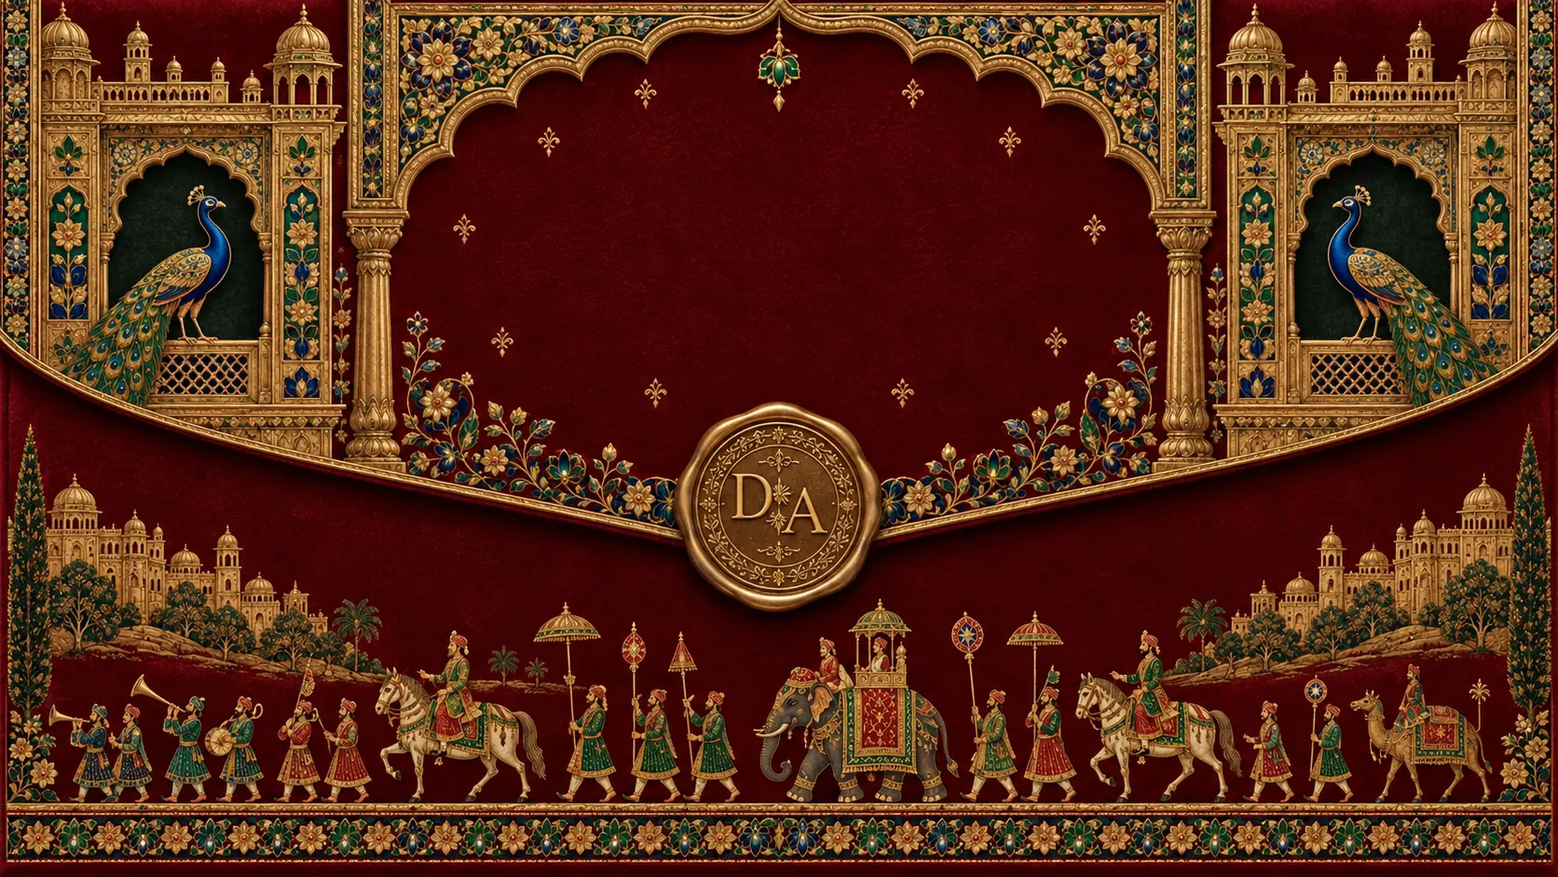
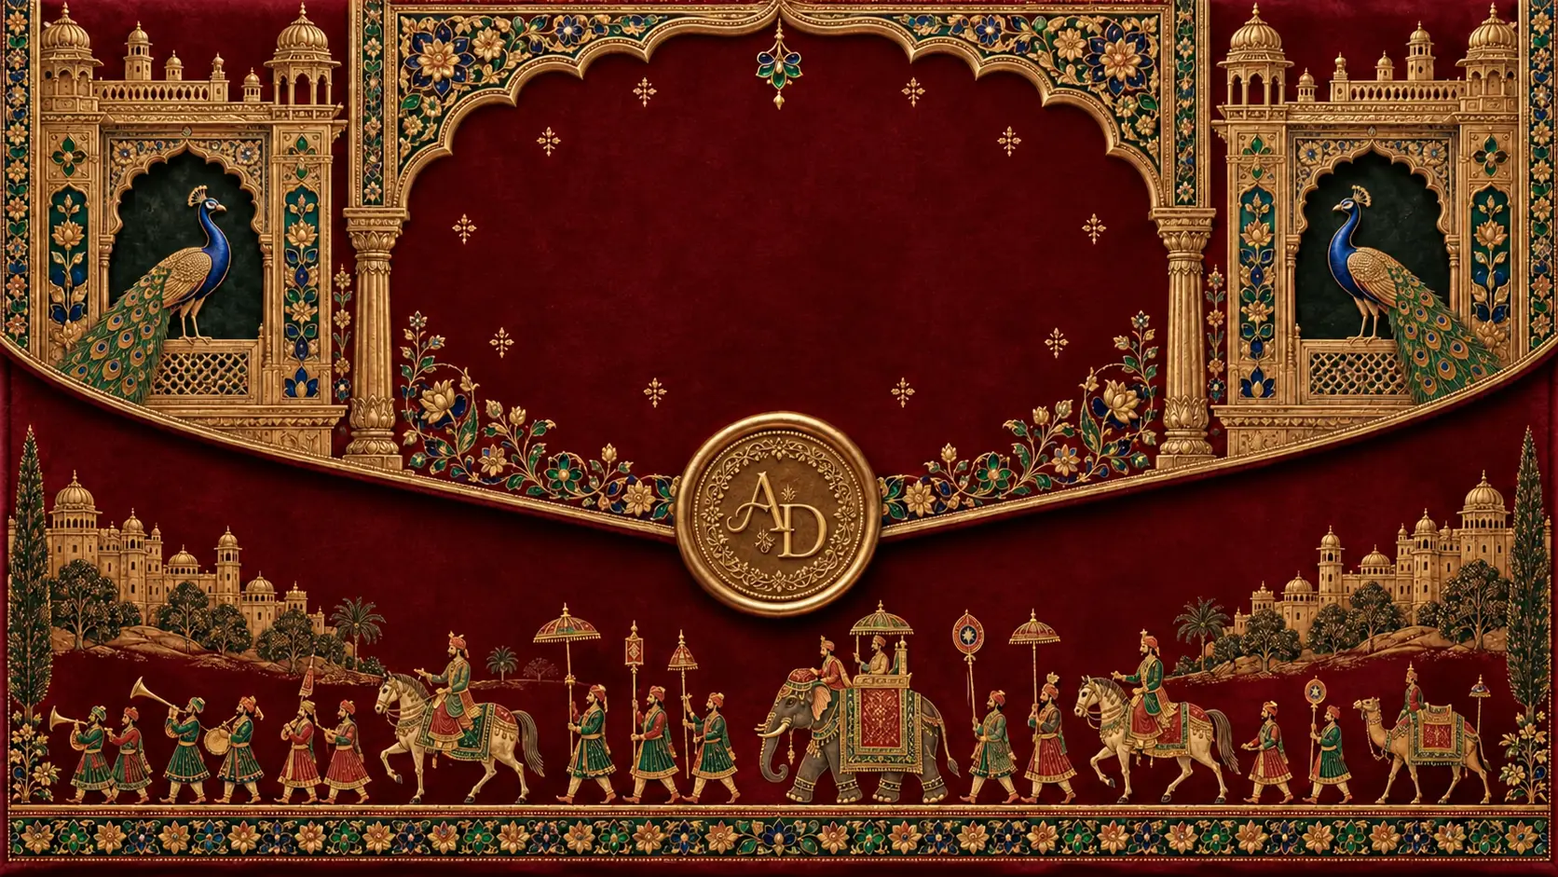
feat: customize wedding invitation website for bride side (Ayusha weds Deepak)

diff --git a/src/components/site/GalleryStack.tsx b/src/components/site/GalleryStack.tsx
@@ -4,10 +4,10 @@ import { useEffect, useRef, useState } from "react";
 import { ArrowLeft, ArrowRight, Expand, Pause, Play, X } from "lucide-react";
 import { Mandala } from "./Ornaments";
 const photos = [
-  { src: "/images/ayusha-deepak-1.webp", alt: "Deepak and Ayusha smiling at each other", title: "It begins with us.", caption: "A glance, a smile, and a new chapter waiting to unfold." },
-  { src: "/images/ayusha-deepak-2.webp", alt: "Deepak and Ayusha dancing together", title: "A little dance. A lot of joy.", caption: "The kind of happiness we can’t wait to share with you." },
-  { src: "/images/ayusha-deepak-4.webp", alt: "Deepak and Ayusha standing together in the light", title: "In every little moment.", caption: "Together is where the next chapter begins." },
-  { src: "/images/ayusha-deepak-3.webp", alt: "Deepak and Ayusha’s celebration portrait", title: "And now, our forever.", caption: "With our families’ blessings, and you by our side." },
+  { src: "/images/ayusha-deepak-1.webp", alt: "Ayusha and Deepak smiling at each other", title: "It begins with us.", caption: "A glance, a smile, and a new chapter waiting to unfold." },
+  { src: "/images/ayusha-deepak-2.webp", alt: "Ayusha and Deepak dancing together", title: "A little dance. A lot of joy.", caption: "The kind of happiness we can’t wait to share with you." },
+  { src: "/images/ayusha-deepak-4.webp", alt: "Ayusha and Deepak standing together in the light", title: "In every little moment.", caption: "Together is where the next chapter begins." },
+  { src: "/images/ayusha-deepak-3.webp", alt: "Ayusha and Deepak’s celebration portrait", title: "And now, our forever.", caption: "With our families’ blessings, and you by our side." },
 ];
 export default function GalleryStack() {
   const root = useRef<HTMLElement>(null);
@@ -36,11 +36,11 @@ export default function GalleryStack() {
   const open = () => { setAutoPlay(false); dialog.current?.showModal(); };
   return <section id="gallery" ref={root} className="memory-story" aria-labelledby="gallery-title">
     <div className="memory-canopy" aria-hidden="true"><img src="/artwork/b4f038c348f07bc0.webp" alt="" loading="lazy" /></div>
-    <header className="premium-heading" data-story=""><span className="eyebrow">A note from Deepak</span><p className="script-accent">A new chapter, with Ayusha</p><h2 id="gallery-title">Some moments<br />deserve to last forever.</h2><p>As Ayusha and I begin this new chapter, I look forward to celebrating it with the people who mean the most to us. These little moments are only the beginning.</p></header>
-    <div className="memory-stage" aria-roledescription="carousel" aria-label="Deepak and Ayusha’s photographs" onTouchStart={event => { touchX.current = event.touches[0].clientX; }} onTouchEnd={event => { if(touchX.current !== null) { const delta=event.changedTouches[0].clientX-touchX.current; if(Math.abs(delta)>45) move(delta<0?1:-1); touchX.current=null; } }}>
+    <header className="premium-heading" data-story=""><span className="eyebrow">A note from Ayusha</span><p className="script-accent">A new chapter, with Deepak</p><h2 id="gallery-title">Some moments<br />deserve to last forever.</h2><p>As Deepak and I begin this new chapter, I look forward to celebrating it with the people who mean the most to us. These little moments are only the beginning.</p></header>
+    <div className="memory-stage" aria-roledescription="carousel" aria-label="Ayusha and Deepak’s photographs" onTouchStart={event => { touchX.current = event.touches[0].clientX; }} onTouchEnd={event => { if(touchX.current !== null) { const delta=event.changedTouches[0].clientX-touchX.current; if(Math.abs(delta)>45) move(delta<0?1:-1); touchX.current=null; } }}>
       <Mandala className="memory-halo" aria-hidden="true" />
       {photos.map((photo, index) => { const offset=(index-active+photos.length)%photos.length; const position=offset===3?-1:offset;
-        return <button type="button" key={photo.src} className="memory-card" data-position={position} onClick={() => position===0 ? open() : select(index)} tabIndex={position===2?-1:0} aria-hidden={position===2} aria-label={position===0?`Enlarge photo: ${photo.alt}`:`Show photo: ${photo.alt}`}><img src={photo.src} alt={photo.alt} width="960" height="1440" loading="eager" decoding="async" /><span className="memory-card-footer"><span>Deepak &amp; Ayusha</span><Expand size={14} /></span></button>;
+        return <button type="button" key={photo.src} className="memory-card" data-position={position} onClick={() => position===0 ? open() : select(index)} tabIndex={position===2?-1:0} aria-hidden={position===2} aria-label={position===0?`Enlarge photo: ${photo.alt}`:`Show photo: ${photo.alt}`}><img src={photo.src} alt={photo.alt} width="960" height="1440" loading="eager" decoding="async" /><span className="memory-card-footer"><span>Ayusha &amp; Deepak</span><Expand size={14} /></span></button>;
       })}
     </div>
     <div className="memory-caption" aria-live={autoPlay ? "off" : "polite"}>{photos.map((photo,index)=><div key={photo.src} className={index===active?"is-active":""} aria-hidden={index!==active}><h3>{photo.title}</h3><p>{photo.caption}</p></div>)}</div>

diff --git a/src/components/site/TempleScene.tsx b/src/components/site/TempleScene.tsx
@@ -66,9 +66,9 @@ export default function TempleScene() {
           <img className="hero__flag-banner" src={art + "ram-flag.png"} alt="" />
         </div>
         <h2 className="hero__names">
-          <span className="scene-name">{wedding.groom.name}</span>
-          <span className="scene-weds">weds</span>
           <span className="scene-name">{wedding.bride.name}</span>
+          <span className="scene-weds">weds</span>
+          <span className="scene-name">{wedding.groom.name}</span>
         </h2>
         <div className="hero__invite">
           <div className="invite-ganesh-heading" lang="hi">
@@ -81,15 +81,15 @@ export default function TempleScene() {
             src={art + "cbcf61a7736f01a5.webp"}
             alt="वक्रतुण्ड महाकाय सूर्यकोटि समप्रभ। निर्विघ्नं कुरु मे देव सर्वकार्येषु सर्वदा॥"
           />
-          <p className="invite-hosts">{wedding.groom.sonOf}</p>
+          <p className="invite-hosts">{wedding.bride.daughterOf}</p>
           <p className="invite-request">
-            With the blessings of Lord Ganesha, we joyfully invite you to the wedding of our beloved son
+            With the blessings of Lord Ganesha, we joyfully invite you to the wedding of our beloved daughter
           </p>
-          <p className="invite-name">{wedding.groom.name}</p>
-          <p className="invite-and">with</p>
           <p className="invite-name">{wedding.bride.name}</p>
-          <p className="invite-relation">Beloved daughter of</p>
-          <p className="invite-family">{wedding.bride.daughterOf}</p>
+          <p className="invite-and">with</p>
+          <p className="invite-name">{wedding.groom.name}</p>
+          <p className="invite-relation">Beloved son of</p>
+          <p className="invite-family">{wedding.groom.sonOf}</p>
           <p className="invite-date">9 December 2026 · Greater Noida West</p>
           <p className="invite-events">Your presence completes our celebration</p>
           <p className="invite-story">

diff --git a/src/components/site/OpeningEnvelope.tsx b/src/components/site/OpeningEnvelope.tsx
@@ -44,7 +44,7 @@ export default function OpeningEnvelope() {
   if (phase === "complete") return null;
 
   return (
-    <section className="invitation-opening" data-phase={phase} aria-label="Open Deepak and Ayusha's wedding invitation">
+    <section className="invitation-opening" data-phase={phase} aria-label="Open Ayusha and Deepak's wedding invitation">
       <div className="opening-stage">
         <div className="opening-kicker"><span lang="hi">॥ शुभ विवाह ॥</span><p>An invitation, made with love</p></div>
         <div className="opening-envelope">
@@ -55,7 +55,7 @@ export default function OpeningEnvelope() {
               <i className="opening-emblem" aria-hidden="true"><b /><em /><b /></i>
               <p>Together with their families</p>
             </div>
-            <h2 className="opening-names"><span>Deepak</span><i>&amp;</i><span>Ayusha</span></h2>
+            <h2 className="opening-names"><span>Ayusha</span><i>&amp;</i><span>Deepak</span></h2>
             <div className="opening-details">
               <small>Request the pleasure of your company<br />as they begin their forever</small>
               <time className="opening-date" dateTime="2026-12-09"><span>December</span><b>09</b><span>2026</span></time>
@@ -64,11 +64,11 @@ export default function OpeningEnvelope() {
           </div>
           <div className="opening-pocket" aria-hidden="true" />
           <div className="opening-flap" aria-hidden="true" />
-          <button className="opening-trigger" type="button" onClick={openInvitation} aria-label="Open Deepak and Ayusha's invitation">
+          <button className="opening-trigger" type="button" onClick={openInvitation} aria-label="Open Ayusha and Deepak's invitation">
             <span>Open invitation</span>
           </button>
         </div>
-        <div className="opening-scroll" aria-hidden="true"><span>Tap the AA seal to open</span><Sparkles size={14} /></div>
+        <div className="opening-scroll" aria-hidden="true"><span>Tap the seal to open</span><Sparkles size={14} /></div>
       </div>
     </section>
   );

diff --git a/src/components/site/Hero.tsx b/src/components/site/Hero.tsx
@@ -82,7 +82,7 @@ export default function Hero() {
     };
   }, []);
   return (
-    <section ref={root} id="home" className="varmala-story" aria-label="Deepak and Ayusha approach each other and exchange varmala as you scroll">
+    <section ref={root} id="home" className="varmala-story" aria-label="Ayusha and Deepak approach each other and exchange varmala as you scroll">
       <div className="varmala-stage">
         <picture className="ceremony-environment"><source media="(max-aspect-ratio:1/1)" srcSet="/video/ceremony-scroll-mobile-poster.webp"/><img src="/video/ceremony-scroll-desktop-poster.webp" alt="" fetchPriority="high"/></picture>
         <video className="ceremony-video" muted playsInline preload="auto" disablePictureInPicture aria-hidden="true">
@@ -90,7 +90,7 @@ export default function Hero() {
           <source src="/video/ceremony-scroll-desktop.mp4" type="video/mp4" />
         </video>
         <div className="ceremony-light" aria-hidden="true"/><div className="ceremony-exit" aria-hidden="true"/>
-        <header className="ceremony-title"><p lang="hi">॥ सिया राम ॥</p><span className="eyebrow">Together with our families</span><h1>Deepak <span>&amp;</span> Ayusha</h1><p className="ceremony-title-date">09 December 2026 · Greater Noida West</p></header>
+        <header className="ceremony-title"><p lang="hi">॥ सिया राम ॥</p><span className="eyebrow">Together with our families</span><h1>Ayusha <span>&amp;</span> Deepak</h1><p className="ceremony-title-date">09 December 2026 · Greater Noida West</p></header>
         <div className="ceremony-narration"><p data-caption="arrival">Two paths. One beautiful beginning.</p><p data-caption="together">With every step, closer to forever.</p><p data-caption="varmala">Two garlands. A promise for a lifetime.</p></div>
         <div className="ceremony-scroll"><span>Scroll to bring our story to life</span><ArrowDown size={17}/><div><i/></div></div>
         <a className="ceremony-skip" href="#invitation">Read the invitation <span aria-hidden="true">↗</span></a>

diff --git a/src/components/site/Invitation.tsx b/src/components/site/Invitation.tsx
@@ -41,24 +41,24 @@ export default function Invitation() {
             </p>
 
             <p className="mx-auto mt-6 max-w-md font-display text-xl leading-relaxed text-ink md:text-2xl">
-              {wedding.groom.sonOf} request the honour of your gracious
-              presence at the wedding of their beloved son
+              {wedding.bride.daughterOf} request the honour of your gracious
+              presence at the wedding of their beloved daughter
             </p>
 
             <p className="gold-text mt-5 font-display text-6xl font-semibold italic md:text-7xl">
-              {wedding.groom.name}
-            </p>
-
-            <p className="mt-4 font-display text-lg text-ink/70 italic md:text-xl">
-              with his soulmate
-            </p>
-
-            <p className="gold-text mt-3 font-display text-6xl font-semibold italic md:text-7xl">
               {wedding.bride.name}
             </p>
 
+            <p className="mt-4 font-display text-lg text-ink/70 italic md:text-xl">
+              with her soulmate
+            </p>
+
+            <p className="gold-text mt-3 font-display text-6xl font-semibold italic md:text-7xl">
+              {wedding.groom.name}
+            </p>
+
             <p className="mt-5 font-display text-lg text-ink/80 italic md:text-xl">
-              daughter of {wedding.bride.daughterOf}
+              son of {wedding.groom.sonOf}
             </p>
 
             {/* arch photo */}
@@ -66,7 +66,7 @@ export default function Invitation() {
               <div className="frame-double arch-top relative aspect-[3/4] overflow-hidden rounded-[999px_999px_18px_18px] border-gold/60">
                 <Image
                   src="/images/couple-candid.jpg"
-                  alt={`${wedding.groom.fullName} and ${wedding.bride.fullName} laughing together at golden hour`}
+                  alt={`${wedding.bride.fullName} and ${wedding.groom.fullName} laughing together at golden hour`}
                   fill
                   sizes="(min-width: 768px) 288px, 256px"
                   className="object-cover"

diff --git a/src/components/site/CoupleFilm.tsx b/src/components/site/CoupleFilm.tsx
@@ -16,11 +16,11 @@ export default function CoupleFilm() {
     return()=>{observer.disconnect();player.pause();reduced.removeEventListener("change",sync);document.removeEventListener("visibilitychange",sync);};
   },[]);
   const toggle=async()=>{const player=video.current;if(!player)return;if(!player.paused){pausedByGuest.current=true;player.pause();}else{pausedByGuest.current=false;if(!player.getAttribute("src"))player.src="/video/couple-reel.mp4";try{await player.play();}catch{setPlaying(false);}}};
-  return <section ref={root} className="couple-cinema" aria-label="Deepak and Ayusha's film">
+  return <section ref={root} className="couple-cinema" aria-label="Ayusha and Deepak's film">
     <div className="couple-cinema-backdrop" aria-hidden="true"/>
-    <video ref={video} muted loop playsInline preload="none" poster="/video/couple-reel-poster.webp" aria-label="Deepak and Ayusha together in their personal celebration film" onPlaying={()=>setPlaying(true)} onPause={()=>setPlaying(false)}/>
+    <video ref={video} muted loop playsInline preload="none" poster="/video/couple-reel-poster.webp" aria-label="Ayusha and Deepak together in their personal celebration film" onPlaying={()=>setPlaying(true)} onPause={()=>setPlaying(false)}/>
     <div className="couple-cinema-shade" aria-hidden="true"/>
-    <div className="couple-cinema-copy"><span className="eyebrow">A glimpse of us</span><h2>Every little moment.<br/><em>Always, you.</em></h2><p>Deepak &amp; Ayusha</p></div>
+    <div className="couple-cinema-copy"><span className="eyebrow">A glimpse of us</span><h2>Every little moment.<br/><em>Always, you.</em></h2><p>Ayusha &amp; Deepak</p></div>
     <span className="cinema-date">09 · 12 · 2026</span>
     <button className="cinema-control" type="button" onClick={toggle} aria-label={playing?"Pause our film":"Play our film"}>{playing?<Pause size={14}/>:<Play size={14}/>}<span>{playing?"Pause":"Play"}</span></button>
   </section>;

diff --git a/src/components/site/Wishes.tsx b/src/components/site/Wishes.tsx
@@ -68,7 +68,7 @@ export default function Wishes() {
             Send Your Blessings
           </h2>
           <p className="mt-3 font-body text-sm md:text-base text-ink/70 max-w-lg mx-auto">
-            Your heartfelt prayers and warm wishes will be delivered directly to Deepak &amp; Ayusha.
+            Your heartfelt prayers and warm wishes will be delivered directly to Ayusha &amp; Deepak.
           </p>
         </header>
 
@@ -83,11 +83,11 @@ export default function Wishes() {
                   Thank You for Your Blessing!
                 </h3>
                 <p className="mt-3 font-body text-sm md:text-base leading-relaxed text-ink/75 max-w-md mx-auto">
-                  Your heartfelt blessing has been received and emailed with love directly to Deepak &amp; Ayusha.
+                  Your heartfelt blessing has been received and emailed with love directly to Ayusha &amp; Deepak.
                 </p>
                 <div className="mt-7 flex items-center justify-center gap-2 font-display text-sm text-saffron-2">
                   <Heart className="h-4 w-4 fill-saffron text-saffron" />
-                  <span>Deepak &amp; Ayusha treasure your love</span>
+                  <span>Ayusha &amp; Deepak treasure your love</span>
                 </div>
                 <button
                   type="button"
@@ -174,7 +174,7 @@ export default function Wishes() {
 
                 <p className="mt-1 flex items-center justify-center gap-1.5 text-center font-body text-xs text-ink/50">
                   <Heart className="h-3.5 w-3.5 fill-saffron text-saffron" aria-hidden />
-                  Delivered straight to Deepak &amp; Ayusha
+                  Delivered straight to Ayusha &amp; Deepak
                 </p>
               </form>
             )}

diff --git a/src/lib/wedding.ts b/src/lib/wedding.ts
@@ -30,7 +30,7 @@ export const wedding = {
   dateIso: "2026-12-09",
   dateLabel: "Wednesday, 9th December 2026",
   countdownTarget: "2026-12-09T00:00:00+05:30",
-  hashtag: "#DeepakWedsAyusha",
+  hashtag: "#AyushaWedsDeepak",
   contacts: ["8585947016", "9871207859"],
   venues: [
     {
@@ -50,7 +50,7 @@ export const wedding = {
     { id: "haldi", name: "Haldi", hindi: "हल्दी", day: "Tuesday", dateIso: "2026-12-08", dateLabel: "8th December 2026", time: "10:00", timeLabel: "10:00 AM", venueId: "home", note: "A morning of turmeric, blessings and laughter with our families.", icon: "sun" },
     { id: "mehndi", name: "Mehndi", hindi: "मेहंदी", day: "Tuesday", dateIso: "2026-12-08", dateLabel: "8th December 2026", time: "17:00", timeLabel: "5:00 PM", venueId: "home", note: "An evening of henna, music and joyful togetherness.", icon: "palette" },
     { id: "sangeet", name: "Sangeet", hindi: "संगीत", day: "Tuesday", dateIso: "2026-12-08", dateLabel: "8th December 2026", time: "19:00", timeLabel: "7:00 PM", venueId: "home", note: "Join us for a night of music, dancing and celebration.", icon: "music" },
-    { id: "wedding", name: "Wedding", hindi: "शुभ विवाह", day: "Wednesday", dateIso: "2026-12-09", dateLabel: "9th December 2026", time: "", timeLabel: "", venueId: "amaatra", note: "Celebrate the wedding of Deepak and Ayusha. Ceremony time to be announced.", icon: "flame" },
+    { id: "wedding", name: "Wedding", hindi: "शुभ विवाह", day: "Wednesday", dateIso: "2026-12-09", dateLabel: "9th December 2026", time: "", timeLabel: "", venueId: "amaatra", note: "Celebrate the wedding of Ayusha and Deepak. Ceremony time to be announced.", icon: "flame" },
   ] as WeddingEvent[],
 };
 

diff --git a/src/components/site/CountdownScene.tsx b/src/components/site/CountdownScene.tsx
@@ -5,6 +5,6 @@ import Countdown from "./Countdown";
 export default function CountdownScene() {
   return <section className="forever-scene" aria-labelledby="countdown-title">
     <div className="forever-art"><img src="/artwork/c22fb695b0b75f19.webp" alt="A decorated elephant holding a lotus beside a tranquil palace lake" width="862" height="1067" loading="lazy" decoding="async" /></div>
-    <div className="forever-content" data-story=""><span className="eyebrow">The best is yet to come</span><p className="script-accent">Every moment closer to</p><h2 id="countdown-title">our forever.</h2><p className="forever-description">A day of love. A lifetime of togetherness.<br />We can’t wait to celebrate with you.</p><Countdown target={wedding.countdownTarget} /><div className="forever-date"><span>09 . 12 . 2026</span><span>Greater Noida West</span></div><a className="premium-button" href="/api/calendar?event=wedding"><CalendarPlus size={16} /> Save our wedding date</a><p className="forever-signature">Deepak <span>&amp;</span> Ayusha</p></div>
+    <div className="forever-content" data-story=""><span className="eyebrow">The best is yet to come</span><p className="script-accent">Every moment closer to</p><h2 id="countdown-title">our forever.</h2><p className="forever-description">A day of love. A lifetime of togetherness.<br />We can’t wait to celebrate with you.</p><Countdown target={wedding.countdownTarget} /><div className="forever-date"><span>09 . 12 . 2026</span><span>Greater Noida West</span></div><a className="premium-button" href="/api/calendar?event=wedding"><CalendarPlus size={16} /> Save our wedding date</a><p className="forever-signature">Ayusha <span>&amp;</span> Deepak</p></div>
   </section>;
 }

diff --git a/src/app/api/calendar/route.ts b/src/app/api/calendar/route.ts
@@ -8,7 +8,7 @@ export async function GET(request: Request) {
   const eventId = new URL(request.url).searchParams.get("event");
   const events = eventId ? wedding.events.filter(event => event.id === eventId) : wedding.events;
   if (!events.length) return new Response("Event not found", { status: 404 });
-  const lines = ["BEGIN:VCALENDAR", "VERSION:2.0", "PRODID:-//Deepak and Ayusha//Wedding//EN", "CALSCALE:GREGORIAN", "METHOD:PUBLISH"];
+  const lines = ["BEGIN:VCALENDAR", "VERSION:2.0", "PRODID:-//Ayusha and Deepak//Wedding//EN", "CALSCALE:GREGORIAN", "METHOD:PUBLISH"];
   for (const event of events) {
     const venue = getVenue(event.venueId);
     const start = new Date(`${event.dateIso}T${event.time || "00:00"}:00+05:30`);
@@ -16,7 +16,7 @@ export async function GET(request: Request) {
       ? [`DTSTART:${stamp(start)}`, `DTEND:${stamp(new Date(start.getTime() + 3 * 3600000))}`]
       : [`DTSTART;VALUE=DATE:${event.dateIso.replace(/-/g, "")}`, `DTEND;VALUE=DATE:${new Date(new Date(event.dateIso).getTime() + 86400000).toISOString().slice(0,10).replace(/-/g, "")}`];
     lines.push("BEGIN:VEVENT", `UID:${event.id}@ayusha-deepak-wedding`, `DTSTAMP:${stamp(new Date())}`, ...dates,
-      `SUMMARY:${escapeIcs(`Deepak & Ayusha — ${event.name}`)}`,
+      `SUMMARY:${escapeIcs(`Ayusha & Deepak — ${event.name}`)}`,
       `DESCRIPTION:${escapeIcs(`${event.note} ${wedding.hashtag}`)}`,
       `LOCATION:${escapeIcs(`${venue.name}, ${venue.address}`)}`, "END:VEVENT");
   }

diff --git a/src/components/site/Events.tsx b/src/components/site/Events.tsx
@@ -9,7 +9,7 @@ export default function Events() {
     </div>
     <div className="celebrations-content">
       <PeacockDance />
-      <header className="premium-heading" data-story=""><span className="eyebrow">08 — 09 December 2026 · Greater Noida West</span><p className="script-accent">Our home fills with joy</p><h2 id="celebrations-title">First, the celebrations.</h2><p>On 8 December, join Deepak’s family at home for haldi, mehndi and sangeet.<br />The next day, gather with us as Deepak and Ayusha begin their married life.</p></header>
+      <header className="premium-heading" data-story=""><span className="eyebrow">08 — 09 December 2026 · Greater Noida West</span><p className="script-accent">Our home fills with joy</p><h2 id="celebrations-title">First, the celebrations.</h2><p>On 8 December, join Ayusha’s family at home for haldi, mehndi and sangeet.<br />The next day, gather with us as Ayusha and Deepak begin their married life.</p></header>
       <div className="celebration-grid">{wedding.events.map((event, index) => {
         const Icon = icons[index]; const venue = getVenue(event.venueId);
         return <article data-story="" className={`celebration-card ${index === 3 ? "celebration-card-wedding" : ""}`} key={event.id}>

diff --git a/src/app/layout.tsx b/src/app/layout.tsx
@@ -6,18 +6,18 @@ export const metadata: Metadata = {
   metadataBase: new URL(
     process.env.NEXT_PUBLIC_SITE_URL ?? "http://localhost:3000"
   ),
-  title: "Deepak & Ayusha | Shubh Vivah — 9 December 2026, Greater Noida West",
+  title: "Ayusha & Deepak | Shubh Vivah — 9 December 2026, Greater Noida West",
   description:
-    "Deepak weds Ayusha — a divine celebration in Greater Noida West. Celebrations on 8th and 9th December 2026. Browse the schedule, venues and share your blessings.",
+    "Ayusha weds Deepak — a divine celebration in Greater Noida West. Celebrations on 8th and 9th December 2026. Browse the schedule, venues and share your blessings.",
   keywords: [
     "wedding invitation",
-    "Deepak weds Ayusha",
+    "Ayusha weds Deepak",
     "Shubh Vivah",
     "Greater Noida wedding",
     "Indian wedding website",
   ],
   openGraph: {
-    title: "Deepak & Ayusha | Shubh Vivah",
+    title: "Ayusha & Deepak | Shubh Vivah",
     description:
       "A divine celebration at Greater Noida West — 9th December 2026. Share your blessing.",
     images: ["/images/ayusha-deepak-3.jpg"],
